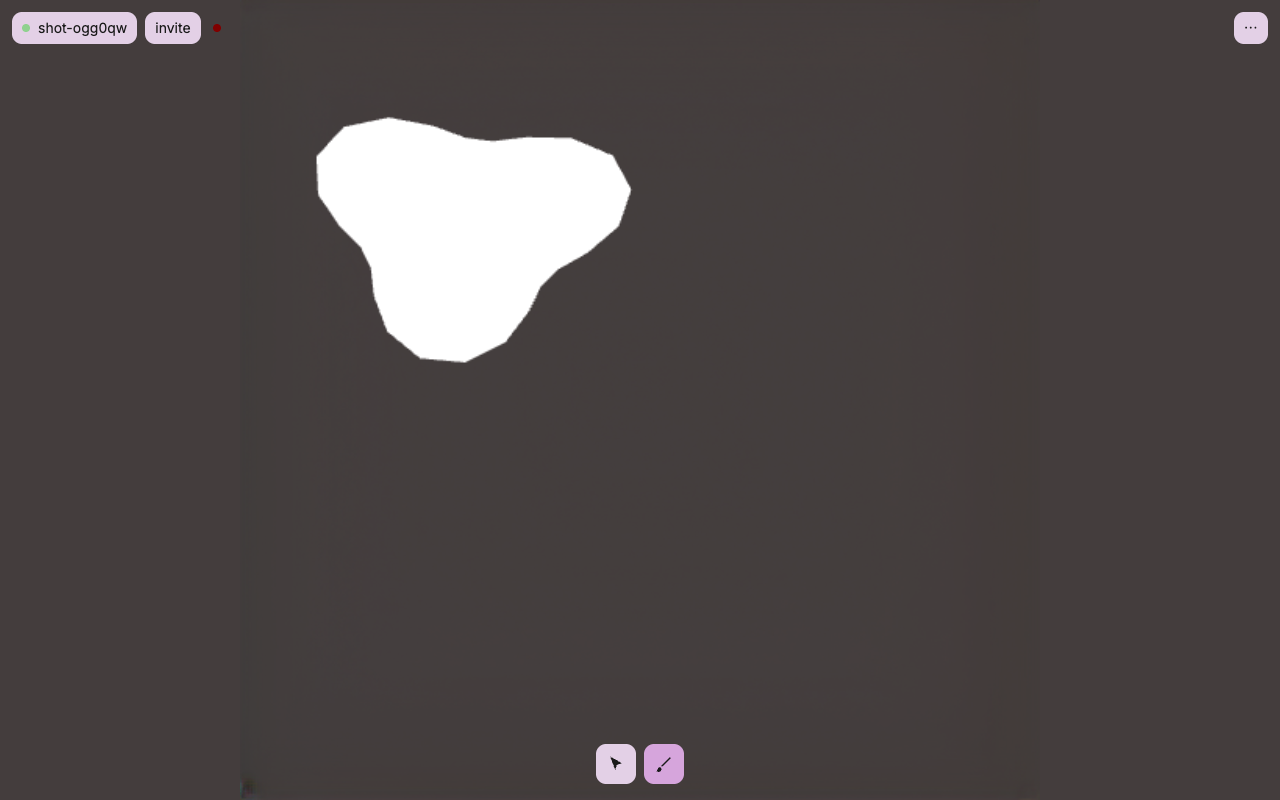
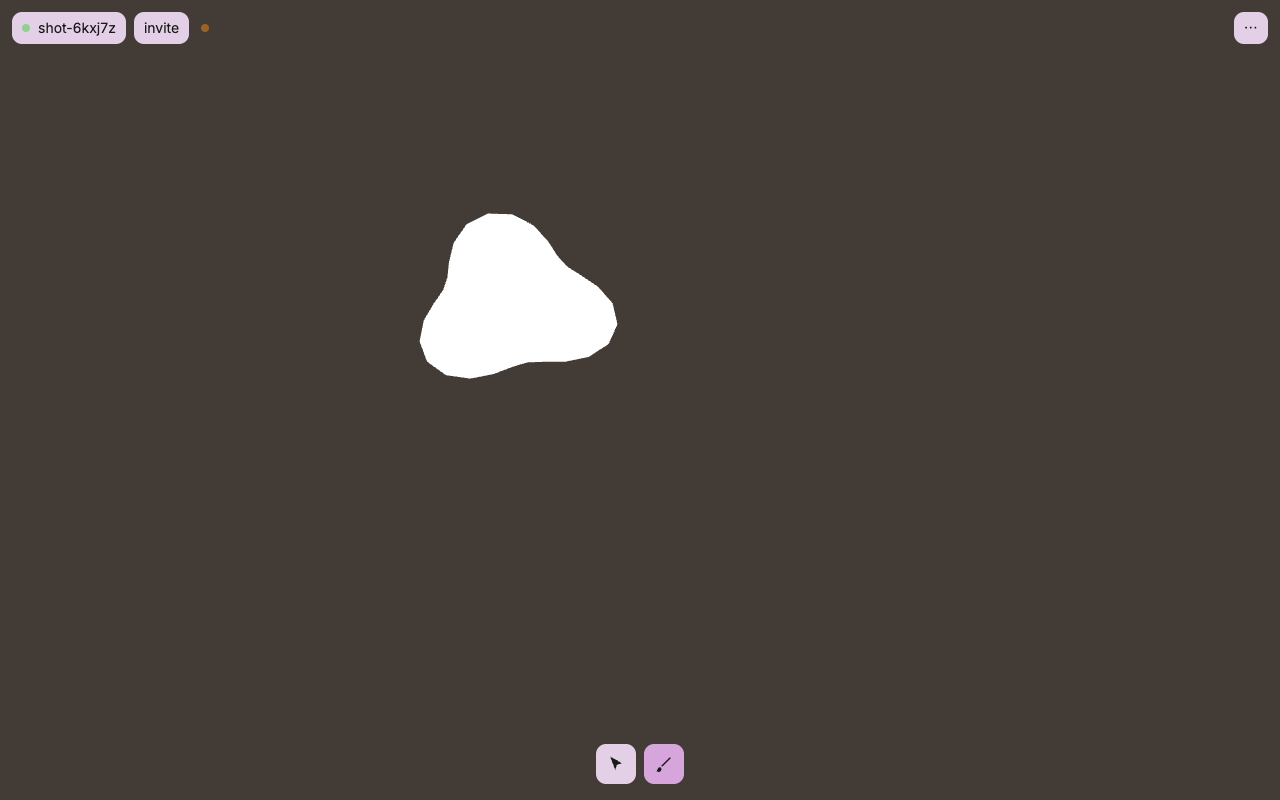
app: 256x256 world in config, guarded exports, filter-free feather; export/replay/video module + tests; MPS shim in the generator

Changed region(s): [[0.25, 0.125, 0.5, 0.4688], [0.0625, 0.0, 0.1875, 0.0625]]

diff --git a/web/app/room.js b/web/app/room.js
@@ -51,7 +51,7 @@ let pendingText = '', testSeconds = null;
 const stage = $('stage');
 const toast = mountToast(stage);
 const roombar = mountRoombar($('roombar'), { roomId, onInvite: invite });
-const menu = mountMenu($('menu-root'), { helpers: helpersOn, onUndo: undo, onExportPng: exportPng, onExportPdf: () => exportPdf(), onReplay: () => replay(), onExportVideo: () => exportVideo(), onHelpers: (v) => (helpersOn = v) });
+const menu = mountMenu($('menu-root'), { helpers: helpersOn, onUndo: undo, onExportPng: () => exportPng(), onExportPdf: () => exportPdf(), onReplay: () => replay(), onExportVideo: () => exportVideo(), onHelpers: (v) => (helpersOn = v) });
 const tools = mountTools($('tools'), { tool, onChange: (t) => { tool = t; if (t === 'cursor') notes.cancel(); pendingShape = null; updateScene(); } });
 const loading = mountLoading($('loading'));
 const notes = mountNotes(stage, {
@@ -68,6 +68,7 @@ const view = mountCanvas(stage, {
   onViewChange: () => { notes.reposition((n) => (n.note ? view.anchorFor(n.note.crop || n.note._mask) : pendingShape ? view.anchorFor(pendingShape.mask) : null)); scheduleVisibleLayers(); },
 });
 view.canvas.id = 'canvas';
+window.__vqpaintView = view;
 document.addEventListener('pointerdown', (e) => { if (!e.target.closest('.note') && !e.target.closest('.ui') && !e.target.closest('.menu')) { if (tool === 'cursor' || !e.target.closest('canvas')) notes.close(); } });
 const setStatus = (s, ms) => toast.status(s, ms);
 const peerName = (id) => (id === room?.id ? myName : peers.get(id)?.name || 'someone');
@@ -190,15 +191,11 @@ async function invite() {
 }
 
 // ---------- export / replay (lib/export.js is loaded on demand) ----------
-async function exportPng() {
-  setStatus('rendering…');
-  const m = await import('../lib/export.js');
-  await m.exportPng({ strokes, layers, grid, filename: `vqpaint-${roomId}.png`, blank: cssBg() });
-  setStatus('exported PNG');
-}
-async function exportPdf() { setStatus('building the PDF…', 0); const m = await import('../lib/export.js'); await m.exportPdf({ strokes, layers, grid, decoder, filename: `vqpaint-${roomId}.pdf`, blank: cssBg(), room: roomId }); setStatus('exported PDF'); }
-async function replay() { const m = await import('../lib/export.js'); await m.replay({ strokes, layers, grid, view, stage, blank: cssBg() }); }
-async function exportVideo() { setStatus('recording the replay…', 0); const m = await import('../lib/export.js'); await m.exportVideo({ strokes, layers, grid, filename: `vqpaint-${roomId}-replay`, blank: cssBg() }); setStatus('exported replay video'); }
+const guard = (label, fn) => async () => { try { await fn(); } catch (e) { console.error(e); setStatus(label + ' failed: ' + e.message, 6000); } };
+const exportPng = guard('export PNG', async () => { setStatus('rendering…', 0); const m = await import('../lib/export.js'); await m.exportPng({ strokes, layers, grid, filename: `vqpaint-${roomId}.png`, blank: cssBg() }); setStatus('exported PNG'); });
+const exportPdf = guard('export PDF', async () => { setStatus('building the PDF…', 0); const m = await import('../lib/export.js'); await m.exportPdf({ strokes, layers, grid, decoder, filename: `vqpaint-${roomId}.pdf`, blank: cssBg(), room: roomId }); setStatus('exported PDF'); });
+const replay = guard('replay', async () => { notes.close(); const m = await import('../lib/export.js'); await m.replay({ strokes, layers, grid, view, stage, blank: cssBg() }); });
+const exportVideo = guard('export video', async () => { setStatus('recording the replay…', 0); const m = await import('../lib/export.js'); await m.exportVideo({ strokes, layers, grid, filename: `vqpaint-${roomId}-replay`, blank: cssBg() }); setStatus('exported replay video'); });
 const cssBg = () => getComputedStyle(document.documentElement).getPropertyValue('--color-bg').trim();
 
 // ---------- helpers (optional) ----------

diff --git a/web/lib/layers.js b/web/lib/layers.js
@@ -14,25 +14,27 @@ export function decodeTokens(b64) {
   const u = new Uint16Array(b.buffer); return Int32Array.from(u);
 }
 
-/** Feathered polygon alpha for a crop: canvas of crop.w*F x crop.h*F, white inside the path, blurred `feather` px. */
+/** Feathered polygon alpha for a crop: white inside the lasso, fading to 0 over `feather` px outside it.
+ *  No canvas filters (WebKit lacks them): the fade is a stack of outline strokes of decreasing width. */
 export function polygonAlpha(crop, path, feather = 6) {
   const W = crop.w * F, H = crop.h * F;
   const c = document.createElement('canvas'); c.width = W; c.height = H;
   const g = c.getContext('2d');
-  g.filter = `blur(${feather}px)`;
-  g.fillStyle = '#fff'; g.beginPath();
+  g.fillStyle = '#fff'; g.strokeStyle = '#fff'; g.lineJoin = 'round'; g.lineCap = 'round';
+  g.beginPath();
   g.moveTo((path[0][0] - crop.x) * F, (path[0][1] - crop.y) * F);
   for (const [x, y] of path) g.lineTo((x - crop.x) * F, (y - crop.y) * F);
-  g.closePath(); g.fill();
-  // the blur shrinks the shape a little: paint the unblurred shape again at 60% so the interior stays solid
-  g.filter = 'none'; g.globalAlpha = 0.6; g.fill(); g.globalAlpha = 1;
+  g.closePath();
+  g.globalAlpha = 1 / feather;
+  for (let k = feather; k >= 1; k--) { g.lineWidth = 2 * k; g.stroke(); }   // distance d outside gets alpha (feather-d+1)/feather
+  g.globalAlpha = 1; g.fill();
   return g.getImageData(0, 0, W, H);   // use the red channel as alpha
 }
 /** Cell-mask alpha for legacy notes without a path (hard token edges, softened 2 px). */
 export function maskAlpha(crop, mask, feather = 2) {
   const W = crop.w * F, H = crop.h * F;
   const c = document.createElement('canvas'); c.width = W; c.height = H;
-  const g = c.getContext('2d'); g.filter = `blur(${feather}px)`; g.fillStyle = '#fff';
+  const g = c.getContext('2d'); g.fillStyle = '#fff'; void feather;
   for (let y = 0; y < mask.h; y++) for (let x = 0; x < mask.w; x++) if (mask.cells[y * mask.w + x]) g.fillRect((mask.x + x - crop.x) * F, (mask.y + y - crop.y) * F, F, F);
   return g.getImageData(0, 0, W, H);
 }

diff --git a/web/lib/export.js b/web/lib/export.js
@@ -87,7 +87,7 @@ export async function exportPdf({ strokes, layers, grid, decoder, filename = 'vq
   doc.text(`vqpaint${room ? ' · ' + room : ''} · ${items.length} note${items.length === 1 ? '' : 's'}`, M, M);
   const big = paintCanvas(items, rect, Math.min(F, 2048 / Math.max(rect.w, rect.h)), blank);
   { const bx = M, by = M + 6, bw = PW - 2 * M, bh = PH - M - by, k = Math.min(bw / big.width, bh / big.height), w = big.width * k, h = big.height * k;
-    addImage(big, bx + (bw - w) / 2, by, w, h); }
+    addImage(big, bx + (bw - w) / 2, by + (bh - h) / 2, w, h); }
   // notes: image at the left, meta + wrapped text at the right; entries flow down the page and continue on new pages
   const lineH = 4.6, metaH = 5.5, gap = 8, imgMax = 48;   // mm
   let y = M; newPage();

diff --git a/web/app/config.js b/web/app/config.js
@@ -3,7 +3,7 @@ export const CONFIG = {
   ortBase: 'https://cdn.jsdelivr.net/npm/onnxruntime-web@1.30.0/dist/',
   modelBase: new URL('../models/', import.meta.url).href,        // decoder, MobileCLIP, palette
   roomsUrl: 'https://vqpaint-rooms.vqpaint-rooms.workers.dev',  // Cloudflare worker + Durable Object (web/rooms)
-  gridW: 32, gridH: 32,                                            // tokens; 32x32 = 512 px canvas
+  gridW: 256, gridH: 256,                                          // tokens; 256x256 = 4096 px world, blank = page background
   brushSizes: [4, 6, 8],
   efforts: { quick: 5, normal: 10, long: 20 },                     // seconds of search per stroke
   version: 'v1',

diff --git a/web/export/paintings/gen_paintings.py b/web/export/paintings/gen_paintings.py
@@ -34,6 +34,17 @@ from PIL import Image  # noqa: E402
 import taming_patch  # noqa: E402
 from prompts import get_prompts  # noqa: E402
 
+# MPS shim: adaptive_avg_pool2d with non-divisible sizes is not implemented on Apple GPUs; use a bilinear resize there.
+import torch as _torch, torch.nn.functional as _F
+_orig_aap = _F.adaptive_avg_pool2d
+def _aap_mps_safe(x, output_size):
+    if x.device.type == "mps":
+        os_ = (output_size, output_size) if isinstance(output_size, int) else tuple(output_size)
+        if x.shape[-2] % os_[0] or x.shape[-1] % os_[1]:
+            return _F.interpolate(x, size=os_, mode="bilinear", align_corners=False)
+    return _orig_aap(x, output_size)
+_F.adaptive_avg_pool2d = _aap_mps_safe
+
 MISSING = np.uint16(65535)
 
 

diff --git a/web/NEEDS_NAZAR.md b/web/NEEDS_NAZAR.md
@@ -4,10 +4,12 @@
 - **Kaggle**: done — your access token is in `~/.kaggle/access_token` (mode 600). It was pasted into the chat once, so rotate it on kaggle.com when the painting run is over if you like.
 - **Hugging Face**: put a *write* token in `~/.config/vqpaint/hf_token` (one line, `chmod 600`). I check for that file; when it exists I upload the model files with `web/export/upload_hf.sh`, verify CORS + caching from the live site, switch `modelBase`, and redeploy. Until then models stay on the gh-pages branch.
 
-## Kaggle painting run (in progress, no action needed unless it fails)
-Your account has no internet inside kernels (Kaggle enables that only after phone verification), so the first run died at `git clone`.
-I uploaded the code, checkpoint, CLIP weights and Linux wheels as the private dataset `noi3noi3/vqpaint-assets` and the kernel `noi3noi3/vqpaint-paintings` runs offline from it.
-If it fails again the fallback is a 1-minute step for you: kaggle.com → Settings → Phone verification, then I re-push with internet on.
+## Kaggle: one minute from you, then I do the rest
+Both ways of running the notebook are blocked by the account, not by code: kernels get no internet ("could not resolve github.com") and
+creating a private dataset to run offline returns 403 Forbidden. Kaggle unlocks both after **phone verification**:
+kaggle.com → Settings → Phone verification. Tell me when it is done; I re-push `noi3noi3/vqpaint-paintings` with internet on
+(`kaggle kernels push` from `web/export/paintings`), watch it, download the zip, build the painting bank and redeploy.
+Meanwhile I am generating a smaller painting set on this Mac's GPU in the background (see PROGRESS.md for how many got done).
 
 ## Still open
 - Merge of PR #1 happens when everything passes (I do it, as agreed).
